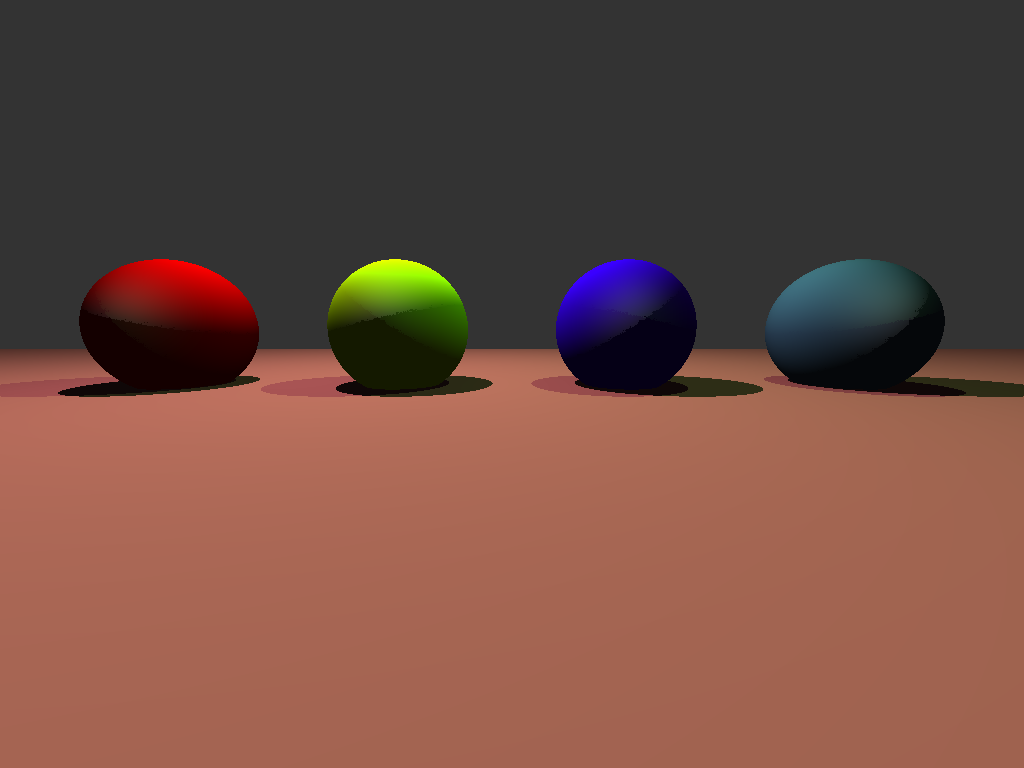
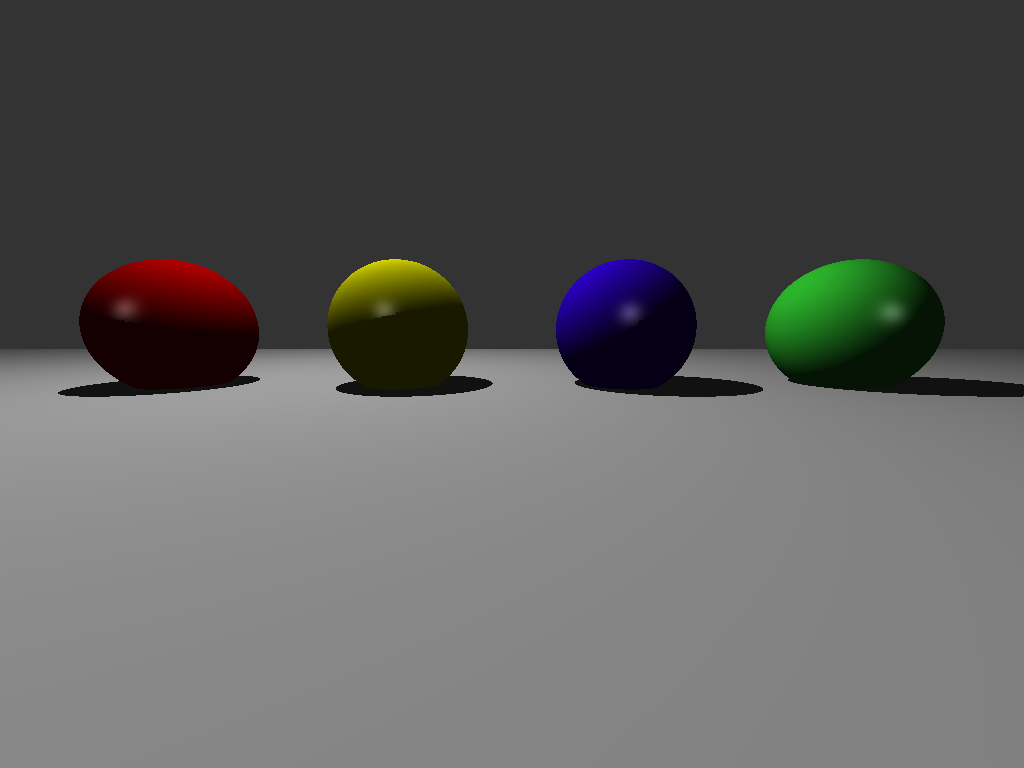
edit main for ray tracer stage 2
different lights / materials

diff --git a/src/main.rs b/src/main.rs
@@ -7,7 +7,6 @@ mod material;
 
 use glam::Vec3;
 use camera::Camera;
-use film::Color;
 use shape::sphere::Sphere;
 
 use crate::{material::{Light, Material}, shape::{Shape, plane::Plane}};
@@ -21,24 +20,35 @@ fn main() {
     let height = 768;
 
     // setup scene
-    let material1 = Material::new(Vec3::new(0.8, 0.0, 0.0), Vec3::new(0.1, 0.1, 0.1), 8.0, Vec3::ZERO);
-    let material2 = Material::new(Vec3::new(0.8, 1.0, 0.0), Vec3::new(0.1, 0.1, 0.1), 8.0, Vec3::ZERO);
-    let material3 = Material::new(Vec3::new(0.2, 0.0, 0.9), Vec3::new(0.1, 0.1, 0.1), 8.0, Vec3::ZERO);
-    let material4 = Material::new(Vec3::new(0.2, 0.3, 0.4), Vec3::new(0.1, 0.1, 0.1), 8.0, Vec3::ZERO);
-    let material5 = Material::new(Vec3::new(0.6, 0.3, 0.3), Vec3::new(0.1, 0.1, 0.1), 8.0, Vec3::ZERO);
+    // materials
+    let red = Material::new(Vec3::new(0.8, 0.0, 0.0), Vec3::new(0.3, 0.3, 0.3), 100.0);
+    let yellow = Material::new(Vec3::new(1.0, 1.0, 0.0), Vec3::new(0.3, 0.3, 0.3), 100.0);
+    let blue = Material::new(Vec3::new(0.2, 0.0, 0.9), Vec3::new(0.3, 0.3, 0.3), 100.0);
+    let green = Material::new(Vec3::new(0.2, 0.8, 0.2), Vec3::new(0.3, 0.3, 0.3), 100.0);
+    let light_gray = Material::new(Vec3::new(0.7, 0.7, 0.7), Vec3::new(0.1, 0.1, 0.1), 8.0);
 
-    let sphere1 = Sphere::new(1.2, Vec3::new(-6.0, 1.0, 0.0), material1);
-    let sphere2 = Sphere::new(1.2, Vec3::new(-2.0, 1.0, 0.0), material2);
-    let sphere3 = Sphere::new(1.2, Vec3::new(2.0, 1.0, 0.0), material3);
-    let sphere4 = Sphere::new(1.2, Vec3::new(6.0, 1.0, 0.0), material4);
+    let shiny1 = Material::new(Vec3::new(0.8, 0.0, 0.0), Vec3::new(0.5, 0.5, 0.5), 10.0);
+    let shiny2 = Material::new(Vec3::new(0.8, 0.0, 0.0), Vec3::new(0.5, 0.5, 0.5), 100.0);
+    let shiny3 = Material::new(Vec3::new(0.8, 0.0, 0.0), Vec3::new(0.5, 0.5, 0.5), 1000.0);
+    let shiny4 = Material::new(Vec3::new(0.8, 0.0, 0.0), Vec3::new(0.5, 0.5, 0.5), 10000.0);
 
-    let plane = Plane::new(Vec3::new(0.0, 0.0, 0.0), Vec3::new(0.0, 1.0, 0.0), material5);
+
+    // shapes
+    let sphere1 = Sphere::new(1.2, Vec3::new(-6.0, 1.0, 0.0), red);
+    let sphere2 = Sphere::new(1.2, Vec3::new(-2.0, 1.0, 0.0), yellow);
+    let sphere3 = Sphere::new(1.2, Vec3::new(2.0, 1.0, 0.0), blue);
+    let sphere4 = Sphere::new(1.2, Vec3::new(6.0, 1.0, 0.0), green);
+    
+
+    let plane = Plane::new(Vec3::new(0.0, 0.0, 0.0), Vec3::new(0.0, 1.0, 0.0), light_gray);
     let shapes: Vec<Box<dyn Shape>> = vec![Box::new(sphere1), Box::new(sphere2), Box::new(sphere3), Box::new(sphere4), Box::new(plane)];
     
     // lights
-    let light1 = Light::new(Vec3::new(-4.0, 10.0, 0.0), Vec3::new(1.0, 1.0, 1.0));
-    let light2 = Light::new(Vec3::new(4.0, 10.0, 0.0), Vec3::new(0.2, 0.5, 0.2));
-    let lights = vec![light1, light2];
+    let white_light = Light::new(Vec3::new(-4.0, 10.0, 0.0), Vec3::new(0.8, 0.8, 0.8)); // white light
+    let red_light = Light::new(Vec3::new(-4.0, 10.0, 0.0), Vec3::new(0.5, 0.2, 0.2)); // red light
+    let green_light = Light::new(Vec3::new(4.0, 10.0, 0.0), Vec3::new(0.2, 0.5, 0.2)); // green light
+    let blue_light = Light::new(Vec3::new(4.0, 5.0, 0.0), Vec3::new(0.1, 0.1, 0.5)); // blue light
+    let lights = vec![white_light];
 
     // angle 1
     let camera = Camera::new(Vec3::new(0.0, 5.0, 5.0), 
@@ -74,6 +84,26 @@ fn main() {
     let film = render::render_scene(&camera, width, height, &shapes, &lights);
 
     film.save("images/angle3.png");
+
+
+    // shinyness
+    let shiny_sphere1 = Sphere::new(1.2, Vec3::new(-6.0, 1.0, 0.0), shiny1);
+    let shiny_sphere2 = Sphere::new(1.2, Vec3::new(-2.0, 1.0, 0.0), shiny2);
+    let shiny_sphere3 = Sphere::new(1.2, Vec3::new(2.0, 1.0, 0.0), shiny3);
+    let shiny_sphere4 = Sphere::new(1.2, Vec3::new(6.0, 1.0, 0.0), shiny4);
+    let plane = Plane::new(Vec3::new(0.0, 0.0, 0.0), Vec3::new(0.0, 1.0, 0.0), light_gray);
+    let shinyness: Vec<Box<dyn Shape>> = vec![Box::new(shiny_sphere1), Box::new(shiny_sphere2), Box::new(shiny_sphere3), Box::new(shiny_sphere4), Box::new(plane)];
+
+    let camera = Camera::new(Vec3::new(0.0, 5.0, 5.0), 
+                                    Vec3::new(0.0, 0.0, 0.0),
+                                    aspect,
+                                    90.0,
+                                    Vec3::new(0.0, 1.0, 0.0));
+
+    let film = render::render_scene(&camera, width, height, &shinyness, &lights);
+
+    film.save("images/shinyness.png");
+
 
 }
 

diff --git a/src/material.rs b/src/material.rs
@@ -6,12 +6,11 @@ pub struct Material {
     k_d: Vec3,      // diffuse color
     k_s: Vec3,      // specular color
     p: f32,         // Phong exponent
-    k_m: Vec3,      // mirror coefficient (0 = not a mirror)
 }
 
 impl Material {
-    pub fn new(k_d: Vec3, k_s: Vec3, p: f32, k_m: Vec3) -> Material{
-        Material { k_d, k_s, p, k_m }
+    pub fn new(k_d: Vec3, k_s: Vec3, p: f32) -> Material{
+        Material { k_d, k_s, p}
     }
 
     // uses Blinn Phong shading to shade pixel 

diff --git a/src/shape/sphere.rs b/src/shape/sphere.rs
@@ -1,4 +1,4 @@
-use crate::{film::Color, material::{self, Material}, ray::Ray, shape::{Hit, Shape}};
+use crate::{material::{Material}, ray::Ray, shape::{Hit, Shape}};
 use glam::{Vec3, Mat4};
 
 pub struct Sphere {
